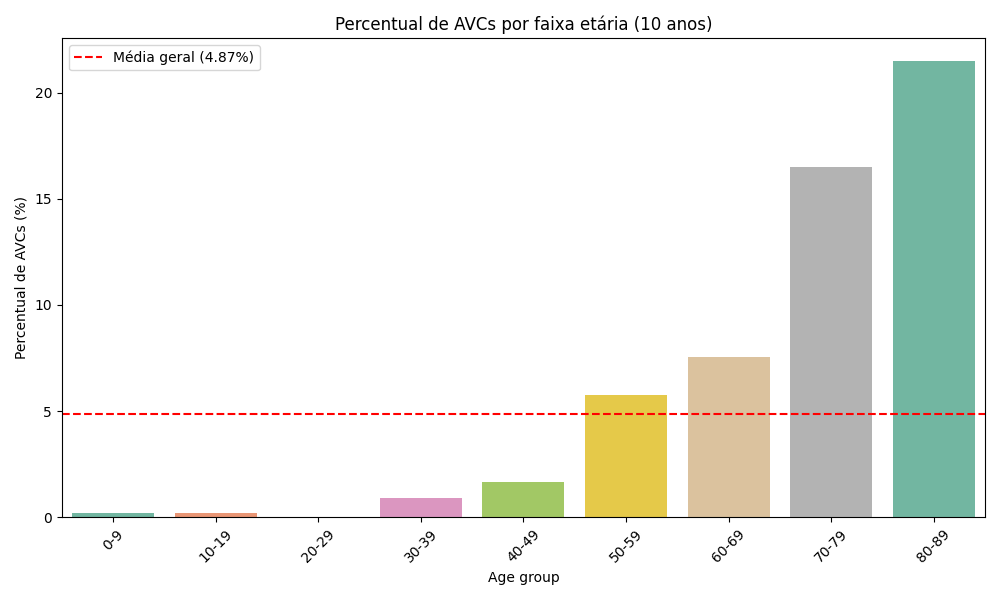
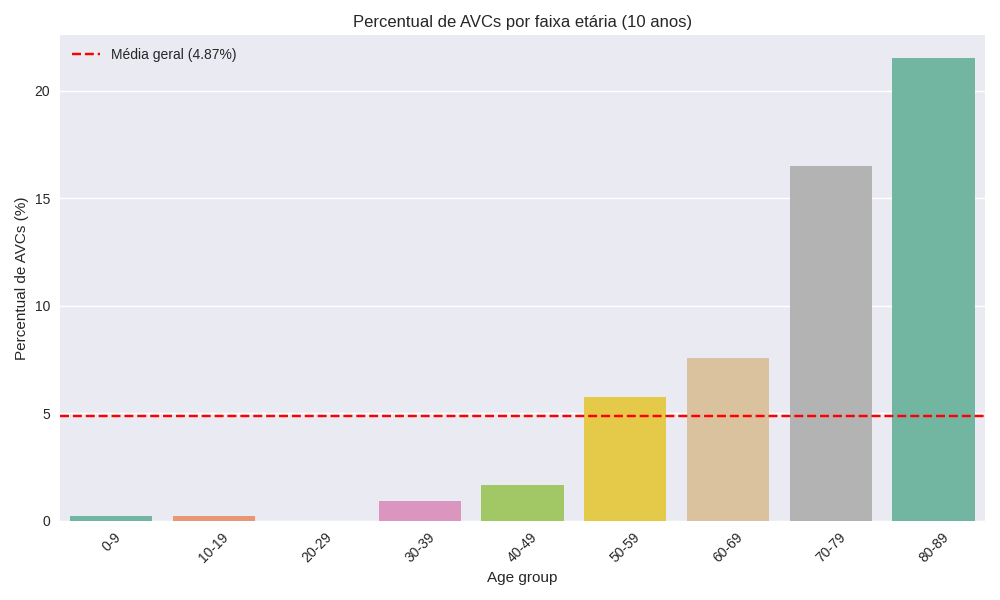
feat: improve analysis

diff --git a/analisis.py b/analisis.py
@@ -267,3 +267,190 @@ plt.show()
 
 print("Análise exploratória completa finalizada!")
 print("Arquivos salvos em: ./analisis/")
+
+
+
+
+import pandas as pd
+import seaborn as sns
+import matplotlib.pyplot as plt
+
+# Ler o dataset
+df = pd.read_csv("./datasets/healthcare-dataset-stroke-data.csv")
+
+# Remover a coluna 'id' que não será usada no modelo.
+df.drop(columns=['id'], inplace=True)
+
+# Calcular percentual geral de AVC
+total_avc = df['stroke'].sum()
+total_geral = len(df)
+percentual_geral = total_avc / total_geral * 100
+
+# Função padrão para gráficos
+def plot_percentual_avc(df, col, title, order=None, bins=None, labels=None, filename=None):
+    if bins:
+        df[col + '_group'] = pd.cut(df[col], bins=bins, labels=labels, right=False)
+        grupo = col + '_group'
+    else:
+        grupo = col
+
+    avc_por_grupo = df[df['stroke'] == 1][grupo].value_counts().sort_index()
+    total_por_grupo = df[grupo].value_counts().sort_index()
+    percentuais = (avc_por_grupo / total_por_grupo * 100).fillna(0)
+
+    df_percentual = percentuais.reset_index()
+    df_percentual.columns = [grupo, 'stroke_percent']
+
+    plt.figure(figsize=(10, 6))
+    sns.barplot(data=df_percentual, x=grupo, y='stroke_percent', order=order, hue=grupo, palette="Set2", legend=False)
+    plt.axhline(y=percentual_geral, color='red', linestyle='--', label=f'Média geral ({percentual_geral:.2f}%)')
+    plt.title(title)
+    plt.xlabel(grupo.replace('_', ' ').capitalize())
+    plt.ylabel("Percentual de AVCs (%)")
+    plt.xticks(rotation=45)
+    plt.legend()
+    plt.tight_layout()
+    if filename:
+        plt.savefig(filename)
+
+# Gráficos solicitados
+
+# 2. Gênero
+plot_percentual_avc(df, 'gender', "Percentual de AVCs por gênero", order=['Female', 'Male'], filename='./analisis/gender')
+
+# 3. Idade (faixas de 10 anos)
+bins_idade = list(range(0, 91, 10))
+labels_idade = [f"{i}-{i+9}" for i in range(0, 90, 10)]
+plot_percentual_avc(df, 'age', "Percentual de AVCs por faixa etária (10 anos)", bins=bins_idade, labels=labels_idade, filename='./analisis/age')
+
+# 4. Hipertensão
+plot_percentual_avc(df, 'hypertension', "Percentual de AVCs por hipertensão", order=[0, 1], filename='./analisis/hypertension')
+
+# 5. Doença cardíaca
+plot_percentual_avc(df, 'heart_disease', "Percentual de AVCs por doença cardíaca", order=[0, 1], filename='./analisis/heart_disease')
+
+# 6. Estado civil
+plot_percentual_avc(df, 'ever_married', "Percentual de AVCs por estado civil", order=['No', 'Yes'], filename='./analisis/ever_married')
+
+# 7. Tipo de trabalho
+plot_percentual_avc(df, 'work_type', "Percentual de AVCs por tipo de trabalho",
+                    order=['children', 'Govt_job', 'Never_worked', 'Private', 'Self-employed'], filename='./analisis/work_type')
+
+# 8. Tipo de residência
+plot_percentual_avc(df, 'Residence_type', "Percentual de AVCs por tipo de residência", order=['Rural', 'Urban'], filename='./analisis/residence_type')
+
+# 9. Glicose média (faixas de 20)
+max_glucose = int(df['avg_glucose_level'].max()) + 20
+bins_glicose = list(range(0, max_glucose, 20))
+labels_glicose = [f"{i}-{i+19}" for i in bins_glicose[:-1]]
+plot_percentual_avc(df, 'avg_glucose_level', "Percentual de AVCs por glicose média (faixas de 20)",
+                    bins=bins_glicose, labels=labels_glicose, filename='./analisis/glucose_level')
+
+# 10. BMI (6 faixas)
+bins_bmi = [0, 18.5, 25, 30, 35, 40, df['bmi'].max() + 1]
+labels_bmi = ['Abaixo do peso', 'Normal', 'Sobrepeso', 'Obesidade I', 'Obesidade II', 'Obesidade III']
+plot_percentual_avc(df, 'bmi', "Percentual de AVCs por faixa de IMC", bins=bins_bmi, labels=labels_bmi, filename='./analisis/bmi')
+
+# 11. Fumante
+plot_percentual_avc(df, 'smoking_status', "Percentual de AVCs por status de tabagismo",
+                    order=['never smoked', 'formerly smoked', 'smokes', 'Unknown'], filename='./analisis/smoking')
+
+# Correlação de Pearson (linear) entre variáveis numéricas
+correlation_matrix = df.corr(numeric_only=True)
+
+# Visualizar com heatmap
+import seaborn as sns
+import matplotlib.pyplot as plt
+
+plt.figure(figsize=(10, 8))
+sns.heatmap(correlation_matrix, annot=True, cmap='coolwarm', fmt=".2f")
+plt.title("Matriz de Correlação")
+plt.tight_layout()
+plt.savefig('./analisis/correlacao_atributos')
+
+
+plt.figure(figsize=(8, 5))
+sns.boxplot(data=df, x='bmi', color='skyblue')
+plt.title("Distribuição de BMI com outliers")
+plt.xlabel("BMI")
+plt.tight_layout()
+plt.savefig("./analisis/boxplot_bmi_outliers.png")
+
+plt.figure(figsize=(10, 6))
+
+
+# Scatter plot bmi x age 
+plt.figure(figsize=(10, 6))
+
+# Stroke = 0 (sem AVC) - bolinha vazia
+sns.scatterplot(data=df[df['stroke'] == 0], x='age', y='bmi',
+                edgecolor='black', facecolor='none', label='Sem AVC (0)', alpha=0.5)
+
+# Stroke = 1 (com AVC) - bolinha preenchida
+sns.scatterplot(data=df[df['stroke'] == 1], x='age', y='bmi',
+                color='red', label='Com AVC (1)', alpha=0.8)
+
+plt.title("Relação entre Idade, BMI e Ocorrência de AVC")
+plt.xlabel("Idade")
+plt.ylabel("IMC (BMI)")
+plt.legend()
+plt.tight_layout()
+plt.savefig("./analisis/scatter_age_bmi_stroke.png")
+
+
+# --- Gráfico combinado: % AVC por faixa etária + média de BMI ---
+
+# Garantir que 'age_group' foi criada
+bins_idade = list(range(0, 91, 10))
+labels_idade = [f"{i}-{i+9}" for i in range(0, 90, 10)]
+df['age_group'] = pd.cut(df['age'], bins=bins_idade, labels=labels_idade, right=False)
+
+# Calcular percentual de AVC por faixa etária
+total_por_faixa = df['age_group'].value_counts().sort_index()
+avc_por_faixa = df[df['stroke'] == 1]['age_group'].value_counts().sort_index()
+percentual_avc = (avc_por_faixa / total_por_faixa * 100).fillna(0)
+
+# Calcular média de BMI por faixa etária
+media_bmi = df.groupby('age_group', observed=False)['bmi'].mean()
+
+# --- Plotando gráfico combinado ---
+fig, ax1 = plt.subplots(figsize=(10, 6))
+
+# Eixo da esquerda: barras vermelhas com % de AVC
+ax1.bar(percentual_avc.index, percentual_avc.values, color='crimson', alpha=0.7, label='% de AVC')
+ax1.set_ylabel('% de AVC', color='crimson')
+ax1.tick_params(axis='y', labelcolor='crimson')
+ax1.set_xlabel('Faixa Etária')
+ax1.set_title('% de AVC e Média de BMI por Faixa Etária')
+
+# Eixo da direita: linha azul com média de BMI
+ax2 = ax1.twinx()
+ax2.plot(media_bmi.index, media_bmi.values, color='steelblue', marker='o', linewidth=2, label='Média de BMI')
+ax2.set_ylabel('Média de BMI', color='steelblue')
+ax2.tick_params(axis='y', labelcolor='steelblue')
+
+# Legenda combinada
+lines_1, labels_1 = ax1.get_legend_handles_labels()
+lines_2, labels_2 = ax2.get_legend_handles_labels()
+ax1.legend(lines_1 + lines_2, labels_1 + labels_2, loc='upper left')
+
+plt.tight_layout()
+plt.savefig("./analisis/grafico_combinado_avc_bmi_por_idade.png")
+
+
+# Filtrar pessoas entre 30 e 60 anos
+df_jovens = df[(df['age'] >= 30) & (df['age'] <= 60)].copy()
+
+# Definir faixas de BMI
+bins_bmi = [0, 18.5, 25, 30, 35, 40, df['bmi'].max() + 1]
+labels_bmi = ['Abaixo do peso', 'Normal', 'Sobrepeso', 'Obesidade I', 'Obesidade II', 'Obesidade III']
+
+# Gerar gráfico apenas com os jovens (30 a 60 anos)
+plot_percentual_avc(
+    df_jovens,
+    col='bmi',
+    title="Percentual de AVCs por faixa de IMC (30 a 60 anos)",
+    bins=bins_bmi,
+    labels=labels_bmi,
+    filename='./analisis/bmi_jovens_30a60'
+)
